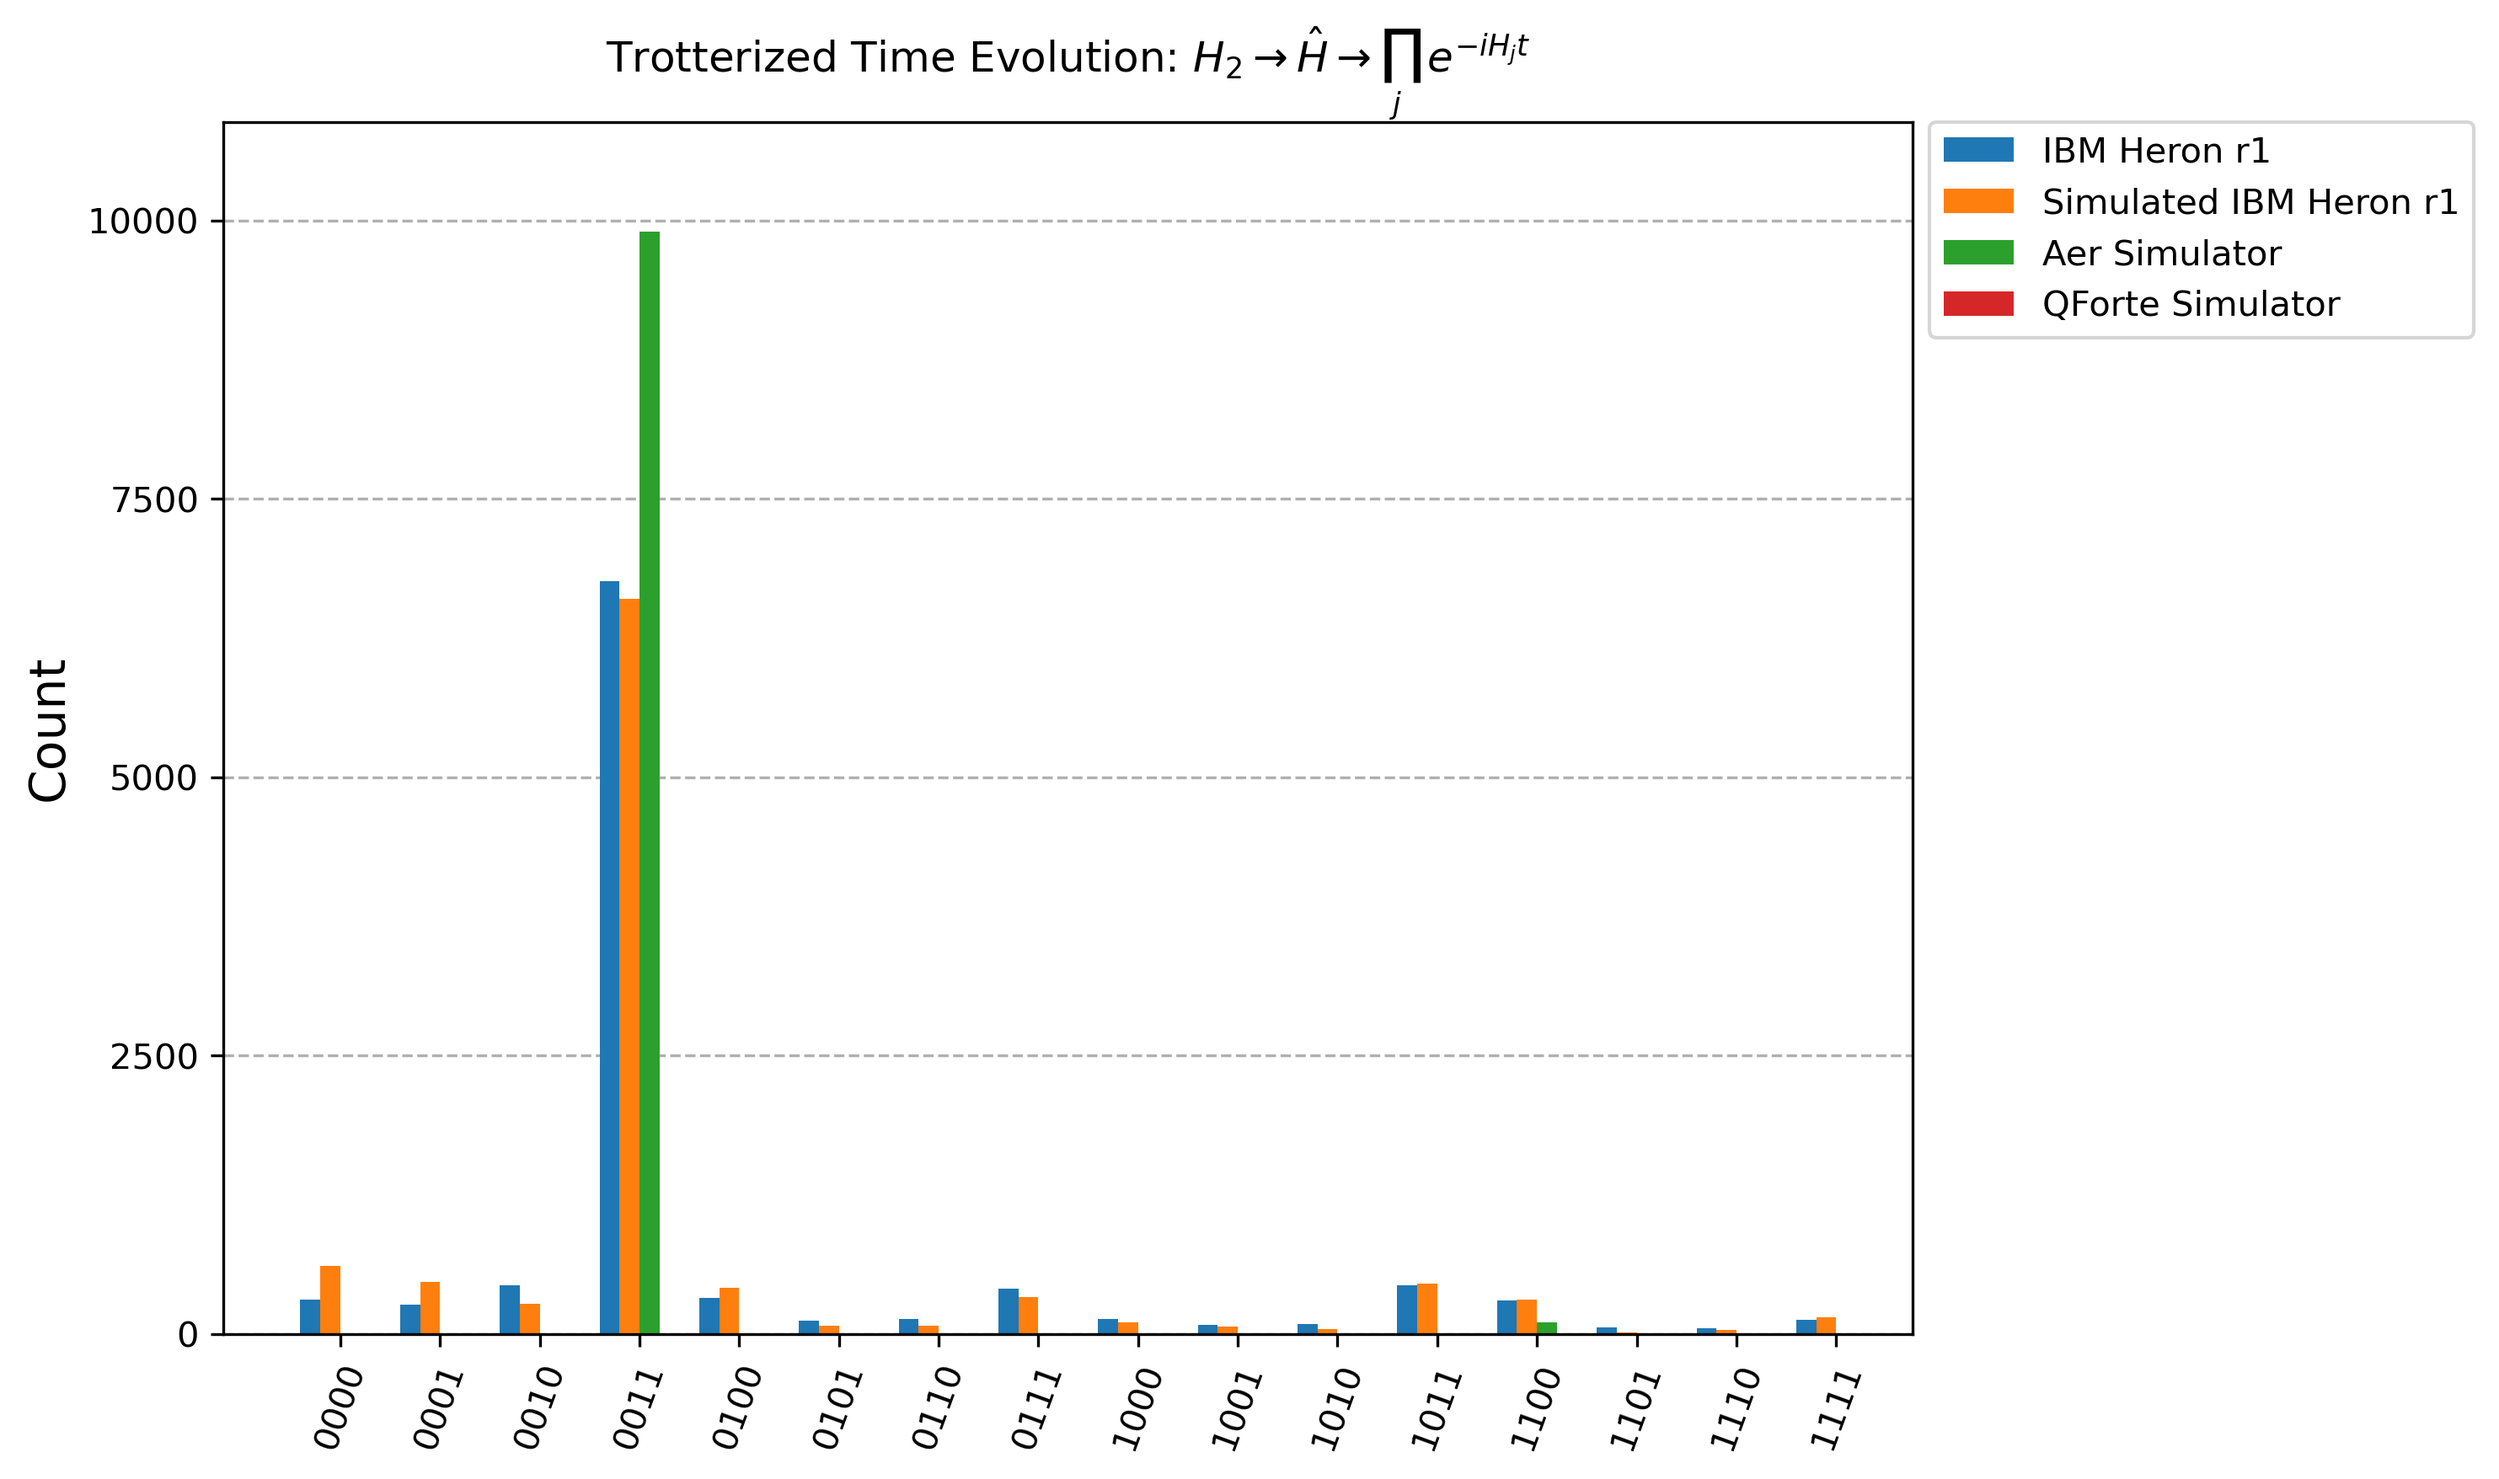
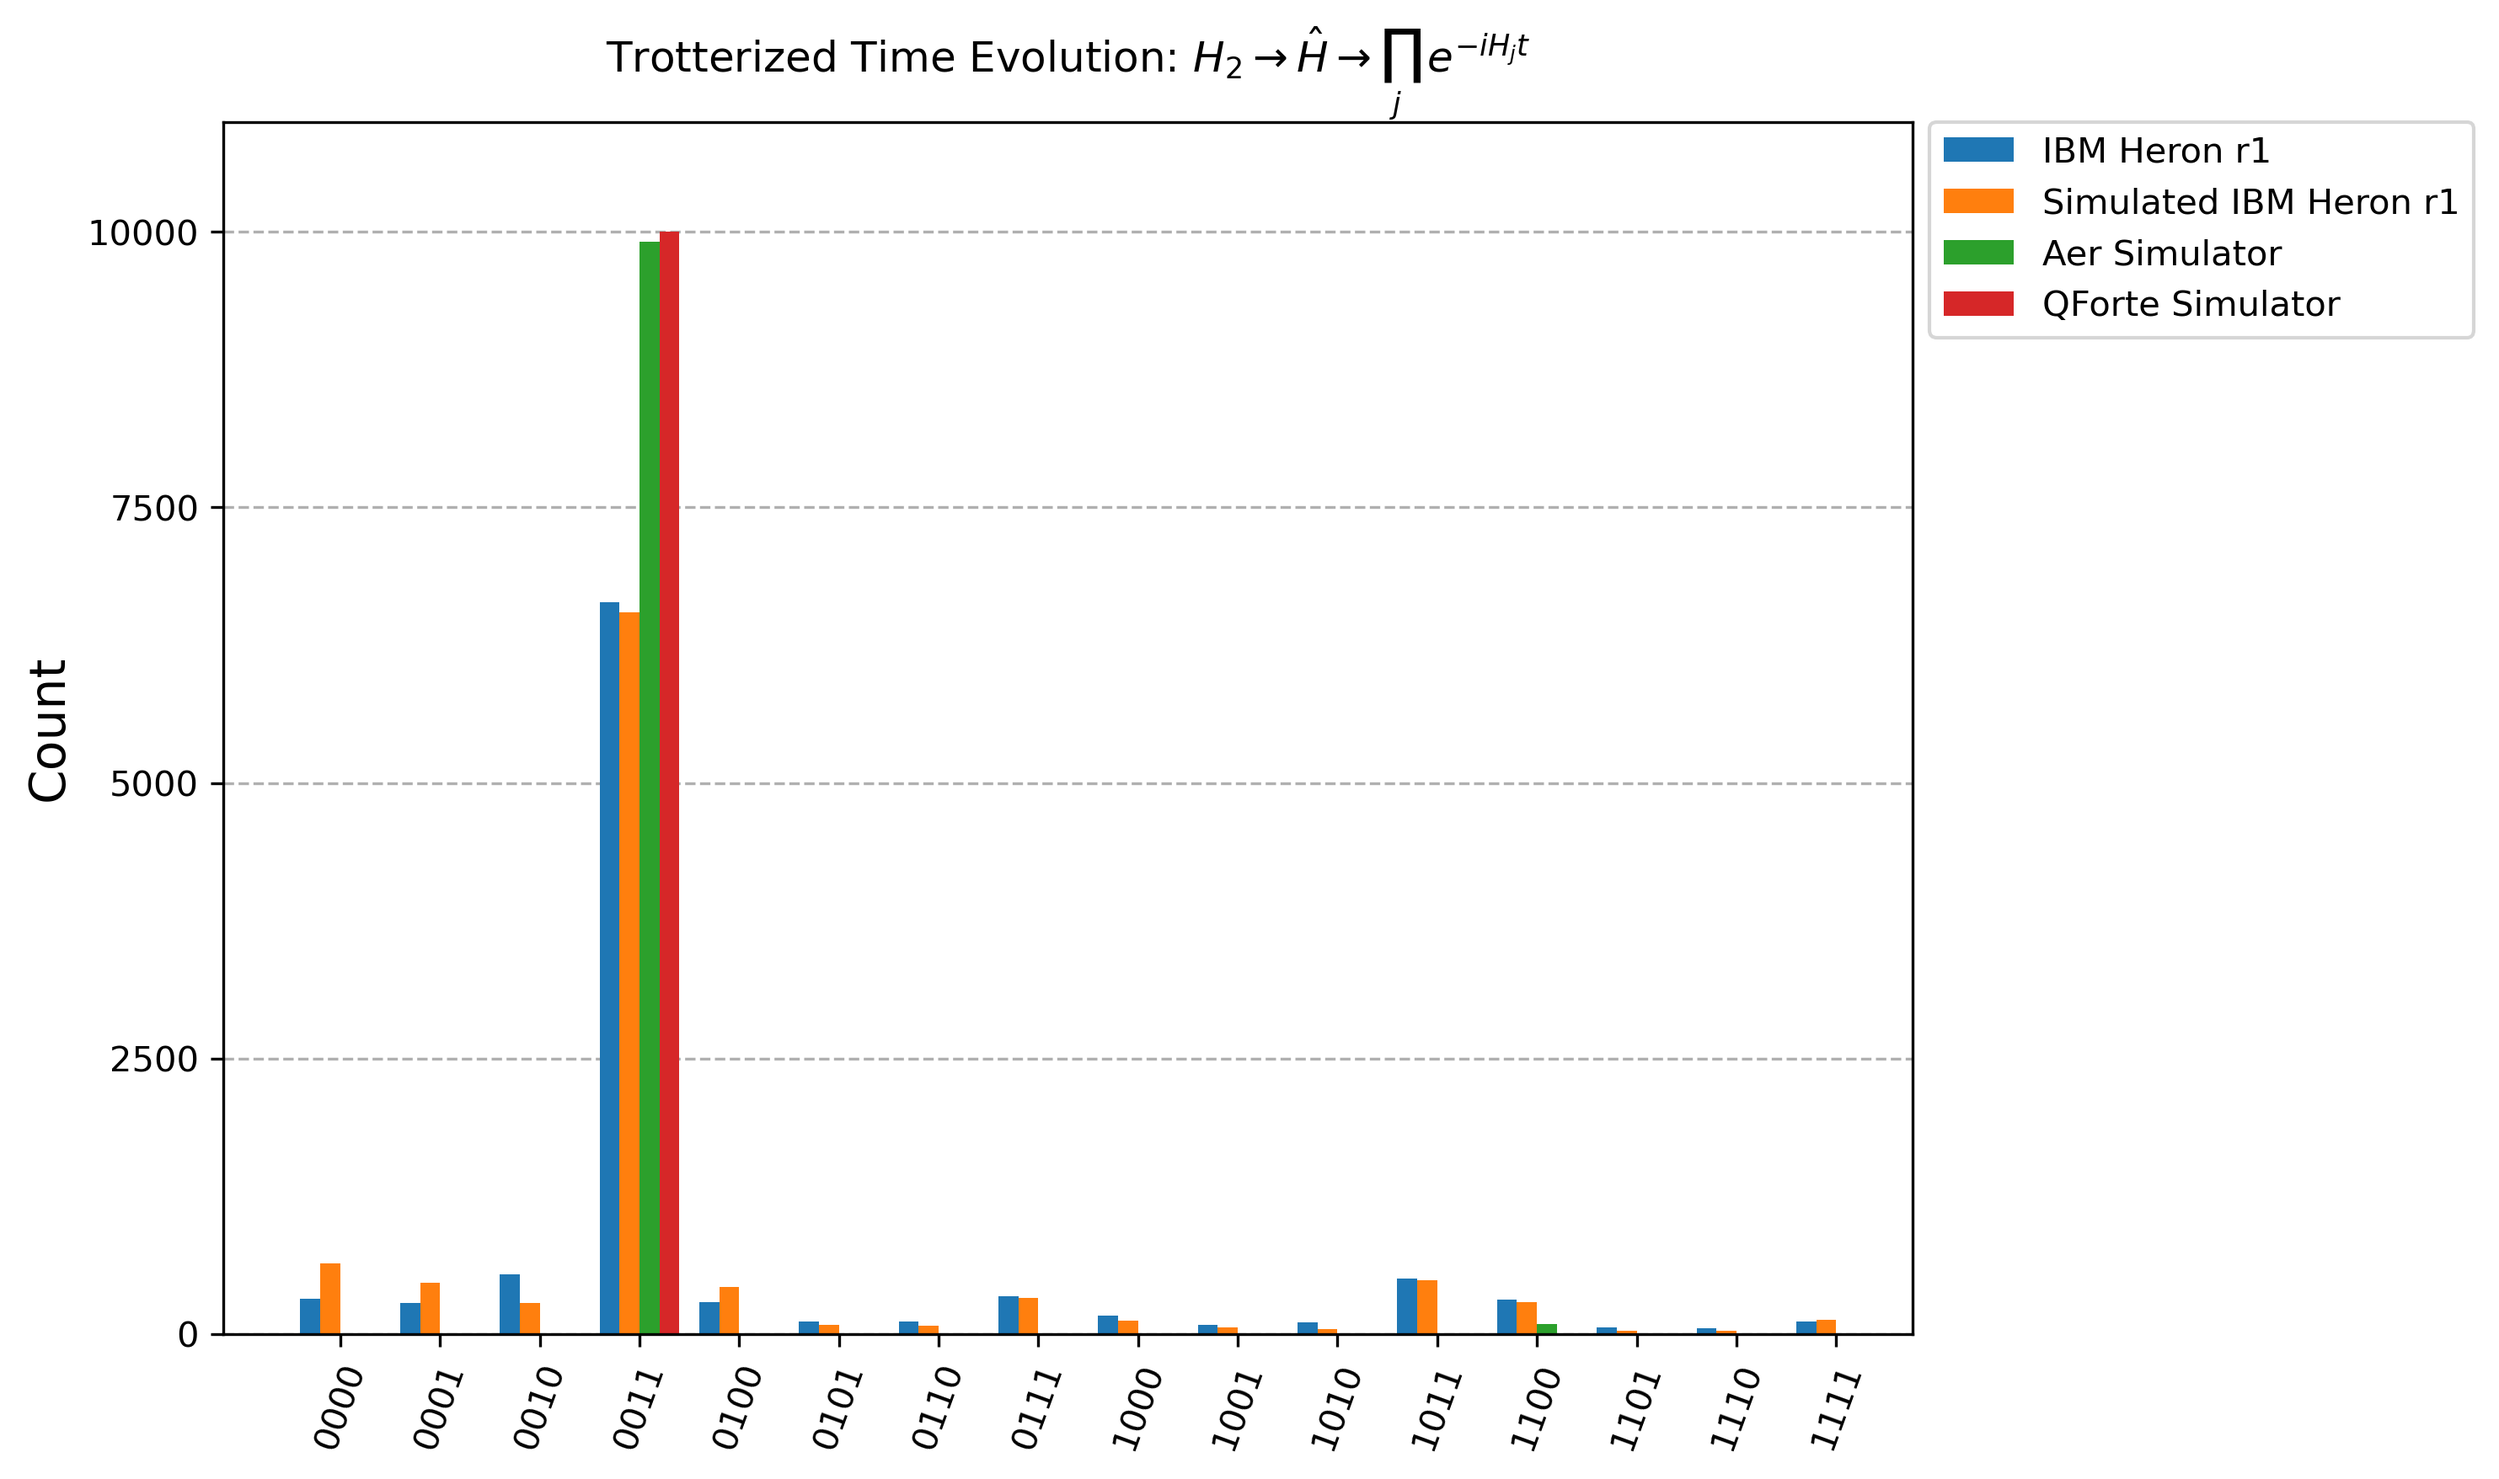
FINALIZED H2 HISTOGRAM!

diff --git a/sandbox/time_evolution/time_evolution_hist.py b/sandbox/time_evolution/time_evolution_hist.py
@@ -76,7 +76,7 @@ def hist(circuit=None, shots=None, computer=None):
     if computer:
         coeffs = computer.get_coeff_vec()
         probs = np.abs(coeffs) ** 2
-        probs = [int(np.round(p)) for p in probs]
+        probs = [int(np.round(p) * shots) for p in probs]
         n = int(np.log2(len(probs)))
         bitstrings = [format(i, f'0{n}b') for i in range(len(probs))]
         amp_probs = dict(zip(bitstrings, probs))
